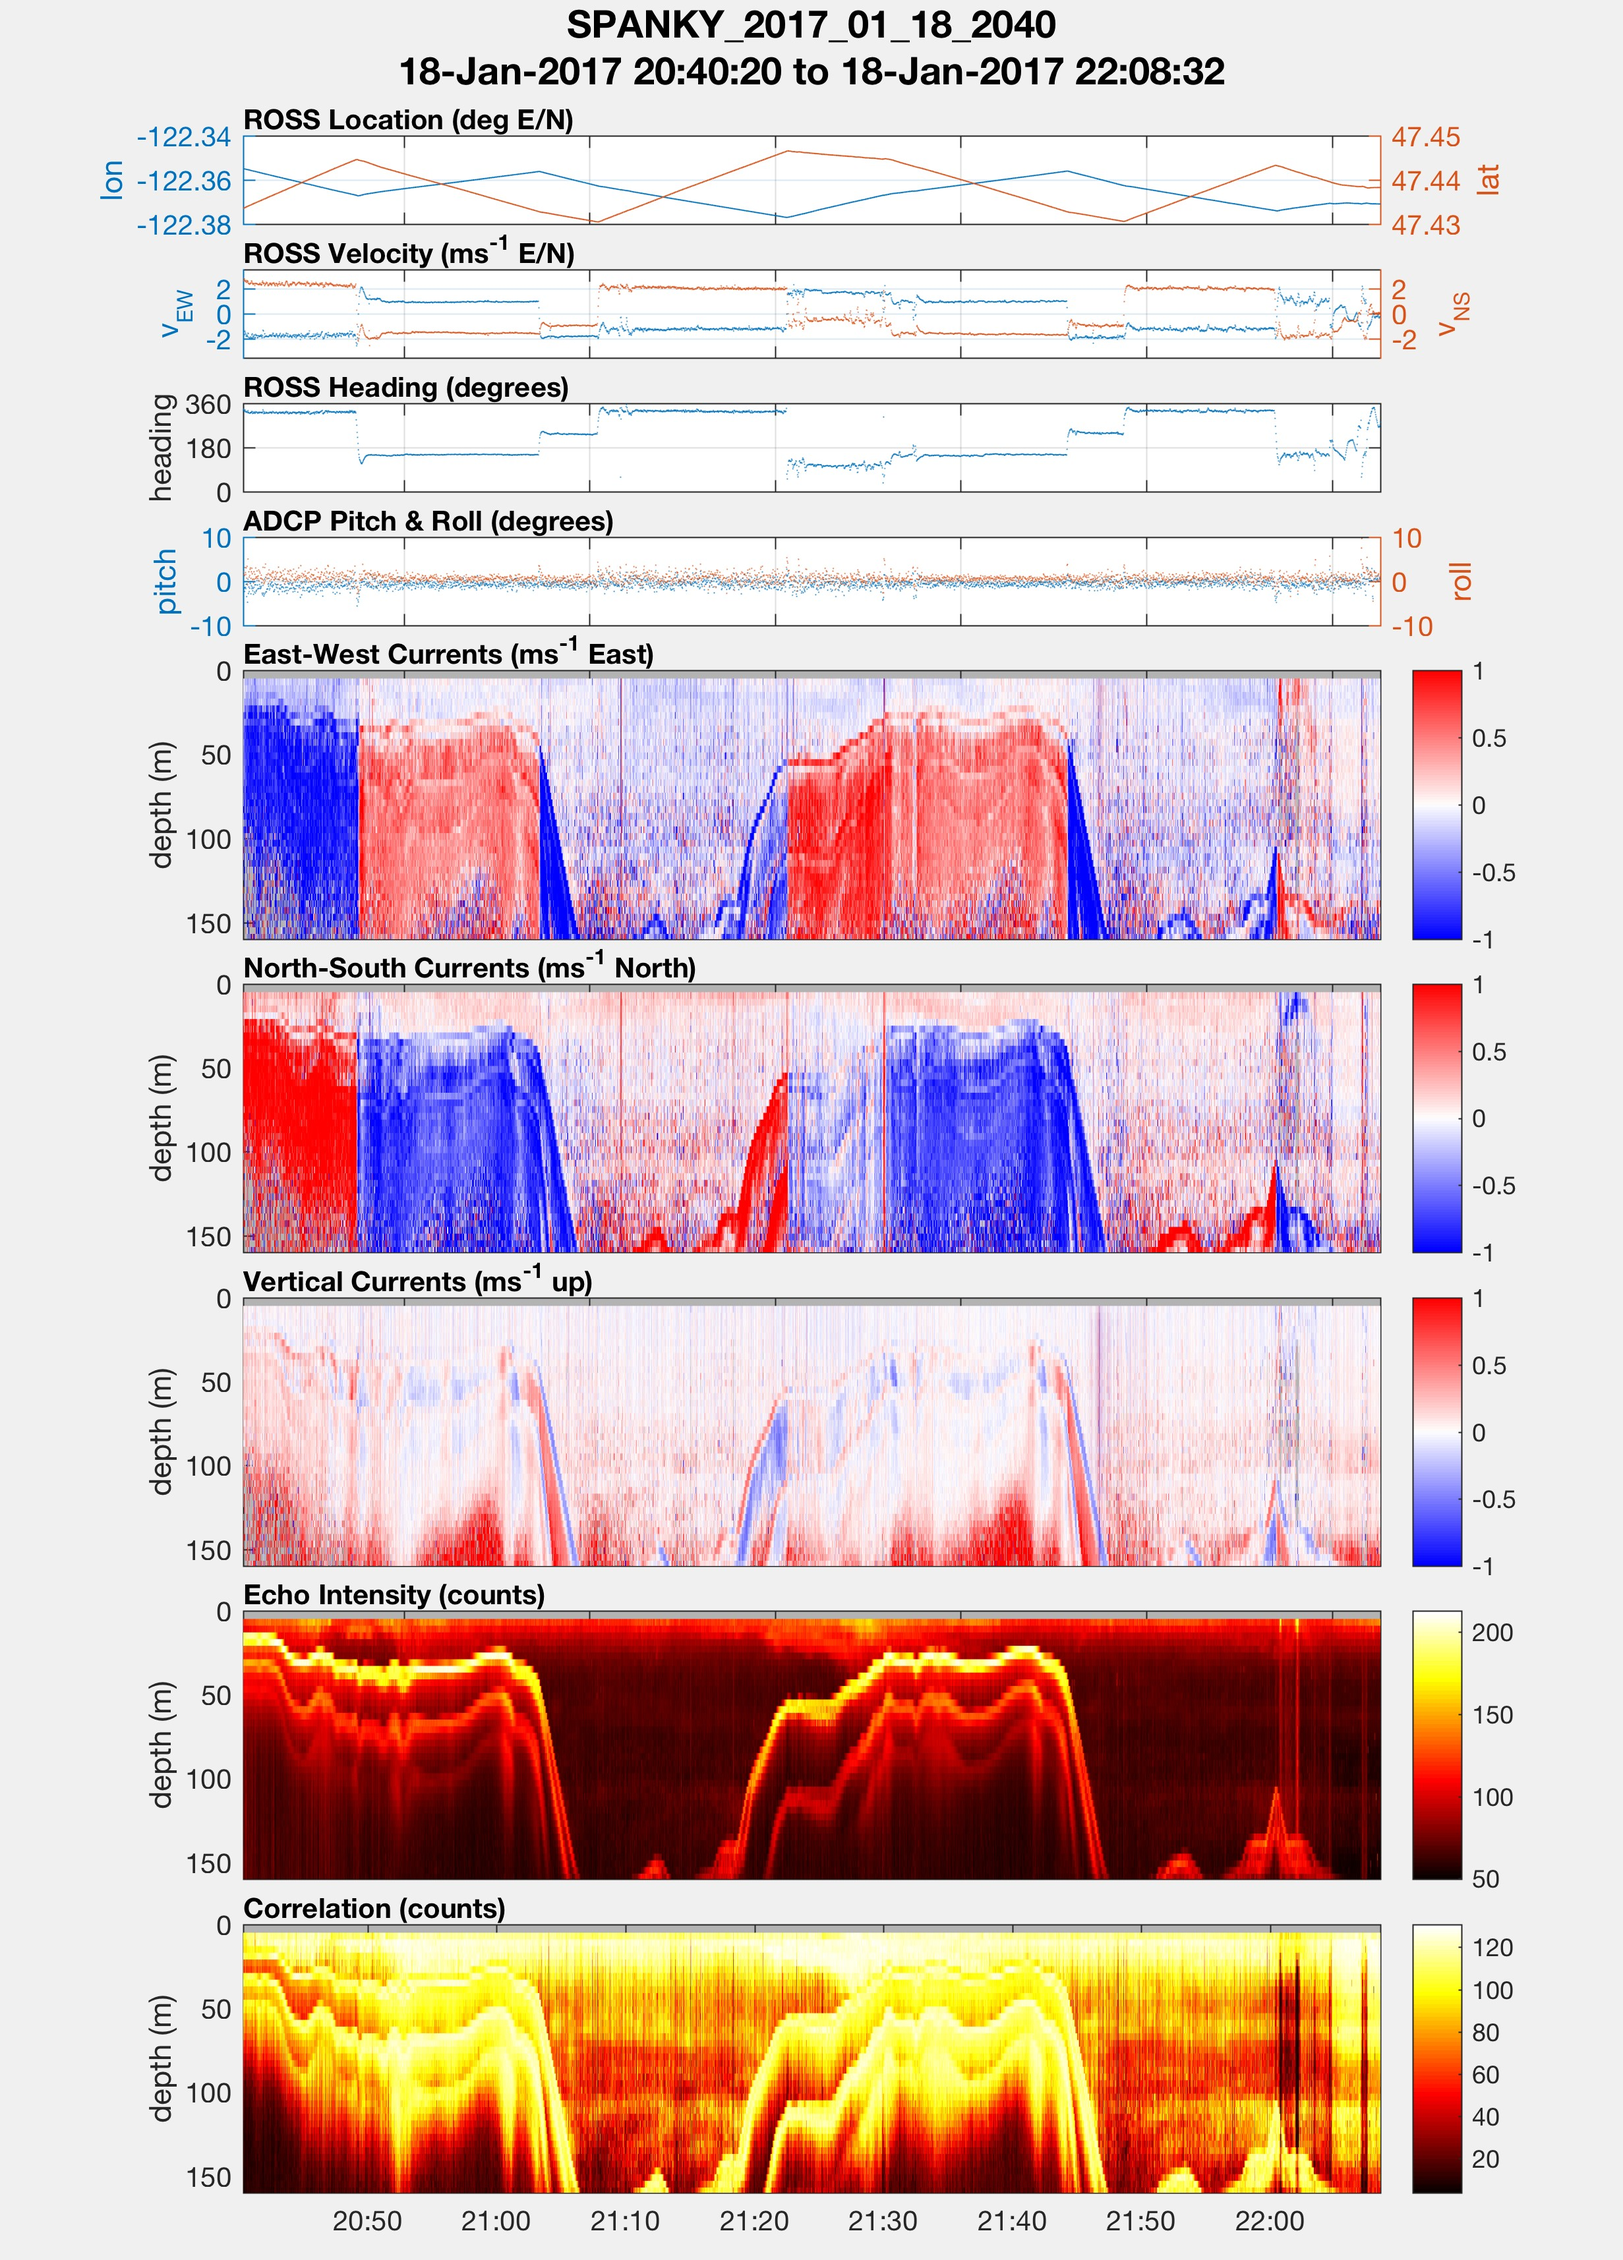
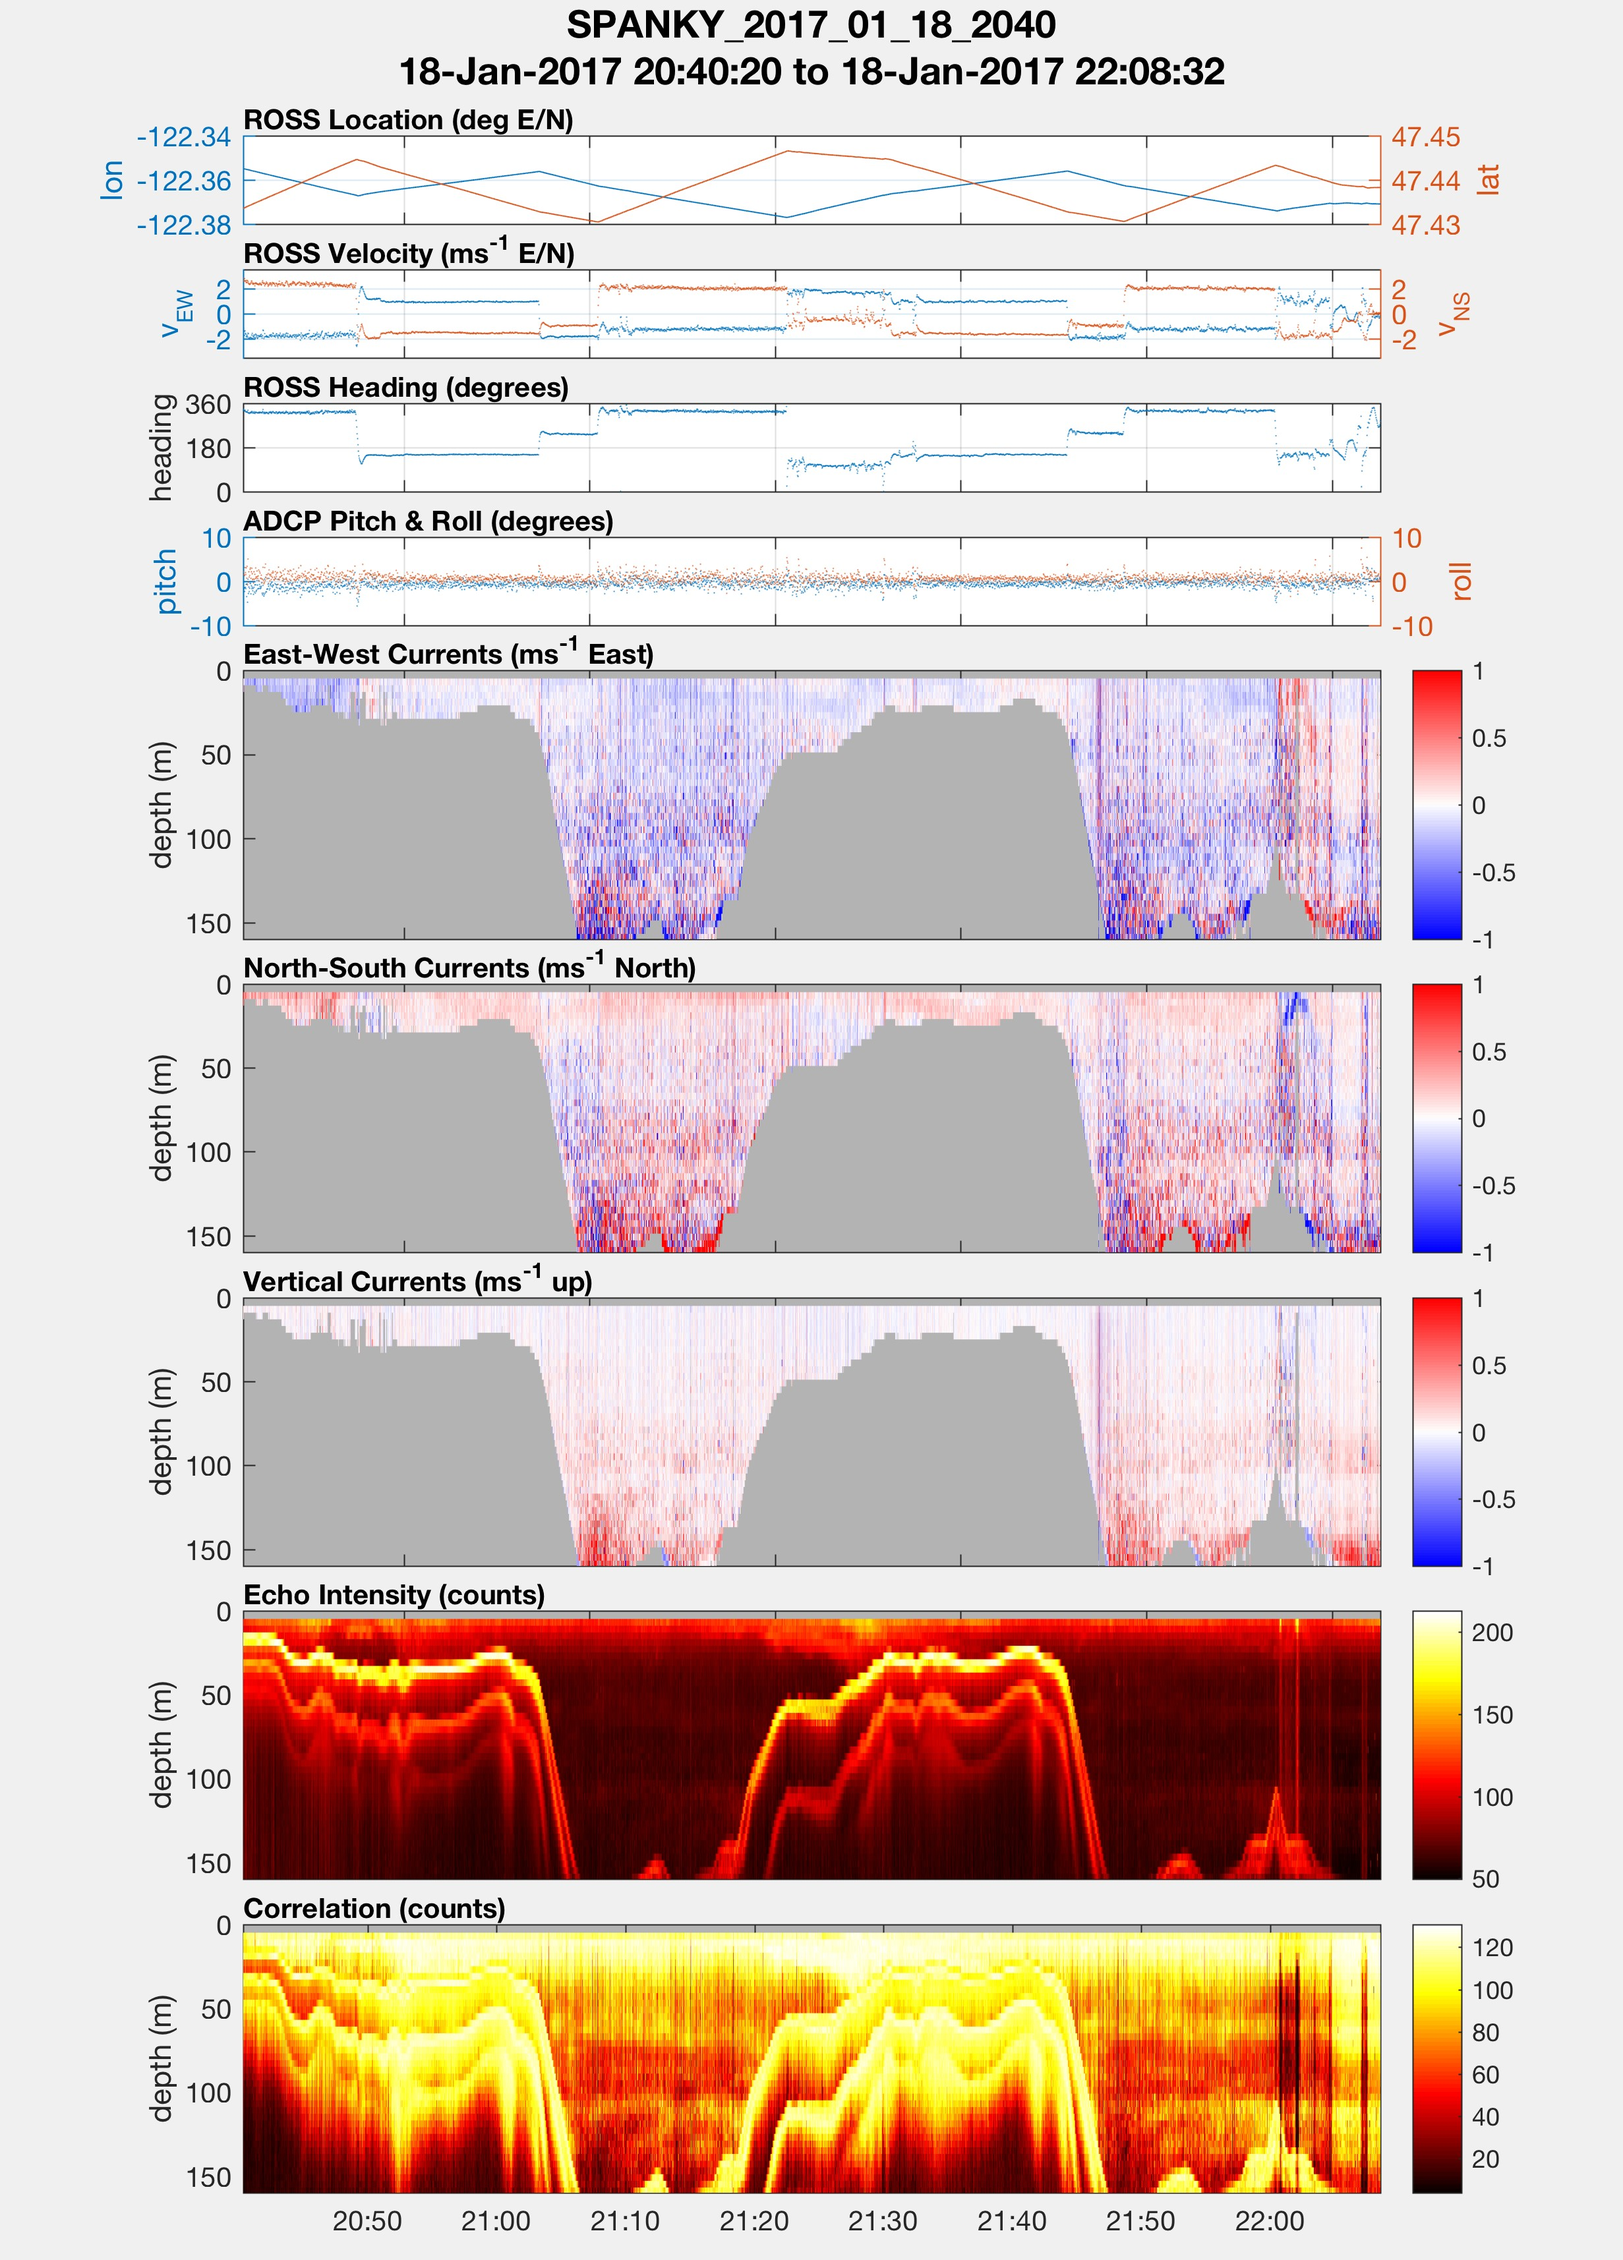
add puget 2017 jan trip

diff --git a/Code/puget_2017_jan/puget_2017_jan_deployments.m b/Code/puget_2017_jan/puget_2017_jan_deployments.m
@@ -1,4 +1,4 @@
-function [master, deployments] = ross_puget_2017_jan_deployments();
+function [master, deployments] = puget_2017_jan_deployments();
 
 %%% Trip info
 master = struct();
@@ -15,11 +15,11 @@ defs.proc.skip = false;
 % defs.proc.trim_methods(1).params = 'beam';
 % defs.proc.trim_methods(2).name = 'cutoff';
 % defs.proc.trim_methods(2).params = 130;
-defs.proc.trim_methods(1).name = 'none';
-defs.proc.trim_methods(1).params = [];
+defs.proc.trim_methods(1).name = 'ei_edge';
+defs.proc.trim_methods(1).params = 'beam';
 defs.proc.ship_vel_removal = 'GPS';
-defs.proc.save_ship = true;
-defs.proc.save_beam = true;
+% defs.proc.save_ship = true;
+% defs.proc.save_beam = true;
 % Beams top-down (4&1 forward):
 % 4 1
 % 2 3
